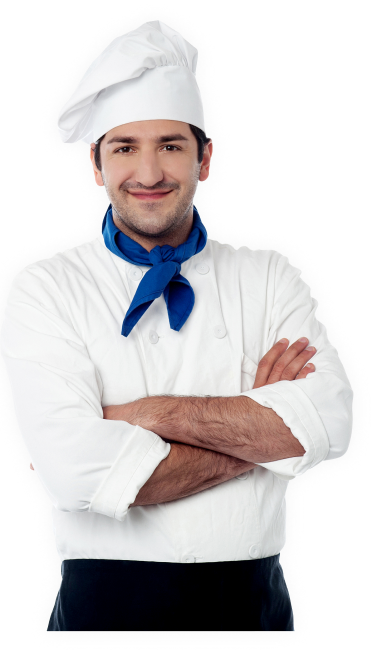
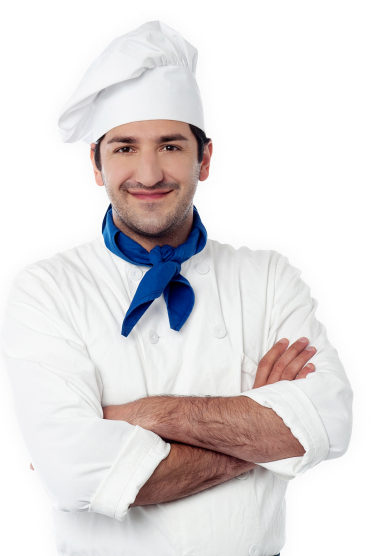
last commit pour ce jour projet non terminer

diff --git a/style.css b/style.css
@@ -352,6 +352,7 @@ main {
     align-items: center;
     justify-content: space-between;
     position: relative;
+    margin-left: 50px;
 }
 
 .container .foot .txt p {
@@ -366,7 +367,7 @@ main {
 .container .foot .image-box {
     background: url(images/chef.png);
     width: 353px;
-    height: 611px;
+    height: 550px;
 }
 
 .container .foot .image-box::after {
@@ -377,4 +378,38 @@ main {
     position: absolute;
     bottom: 100px;
     right: 250px;
+}
+
+.reservation {
+    background: url(images/reservation.jpg);
+    width: 100%;
+    height: 600px;
+}
+
+.reservation .content {
+    background: linear-gradient(to bottom, #000, transparent);
+    height: 100%;
+    display: flex;
+    flex-direction: column;
+    align-items: center;
+}
+
+.reservation .content .txt {
+    text-align: center;
+    margin-top: 97px;
+}
+
+.reservation .content .txt h2 {
+    color: #fff;
+}
+
+.sep {
+    position: relative;
+    left: 48%;
+}
+
+.reservation .content .txt p {
+    color: #6F6F6F;
+    font-size: 16px;
+    width: 640px;
 }

diff --git a/index.html b/index.html
@@ -128,6 +128,16 @@
                 <div class="image-box"></div>
             </section>
         </div>
+        <section class="reservation">
+            <div class="content">
+                <div class="txt">
+                    <hr class="sep">
+                    <h1 class="titre-jaune">Reservation</h1>
+                    <h2 class="sous-titre">make a reservation</h2>
+                    <p>Classified advertising is a form of advertising that is particularly common in newspapers and other periodicals. A classified is usually textually based and can consist.</p>
+                </div>
+            </div>
+        </section>
     </main>
 </body>
 </html>
